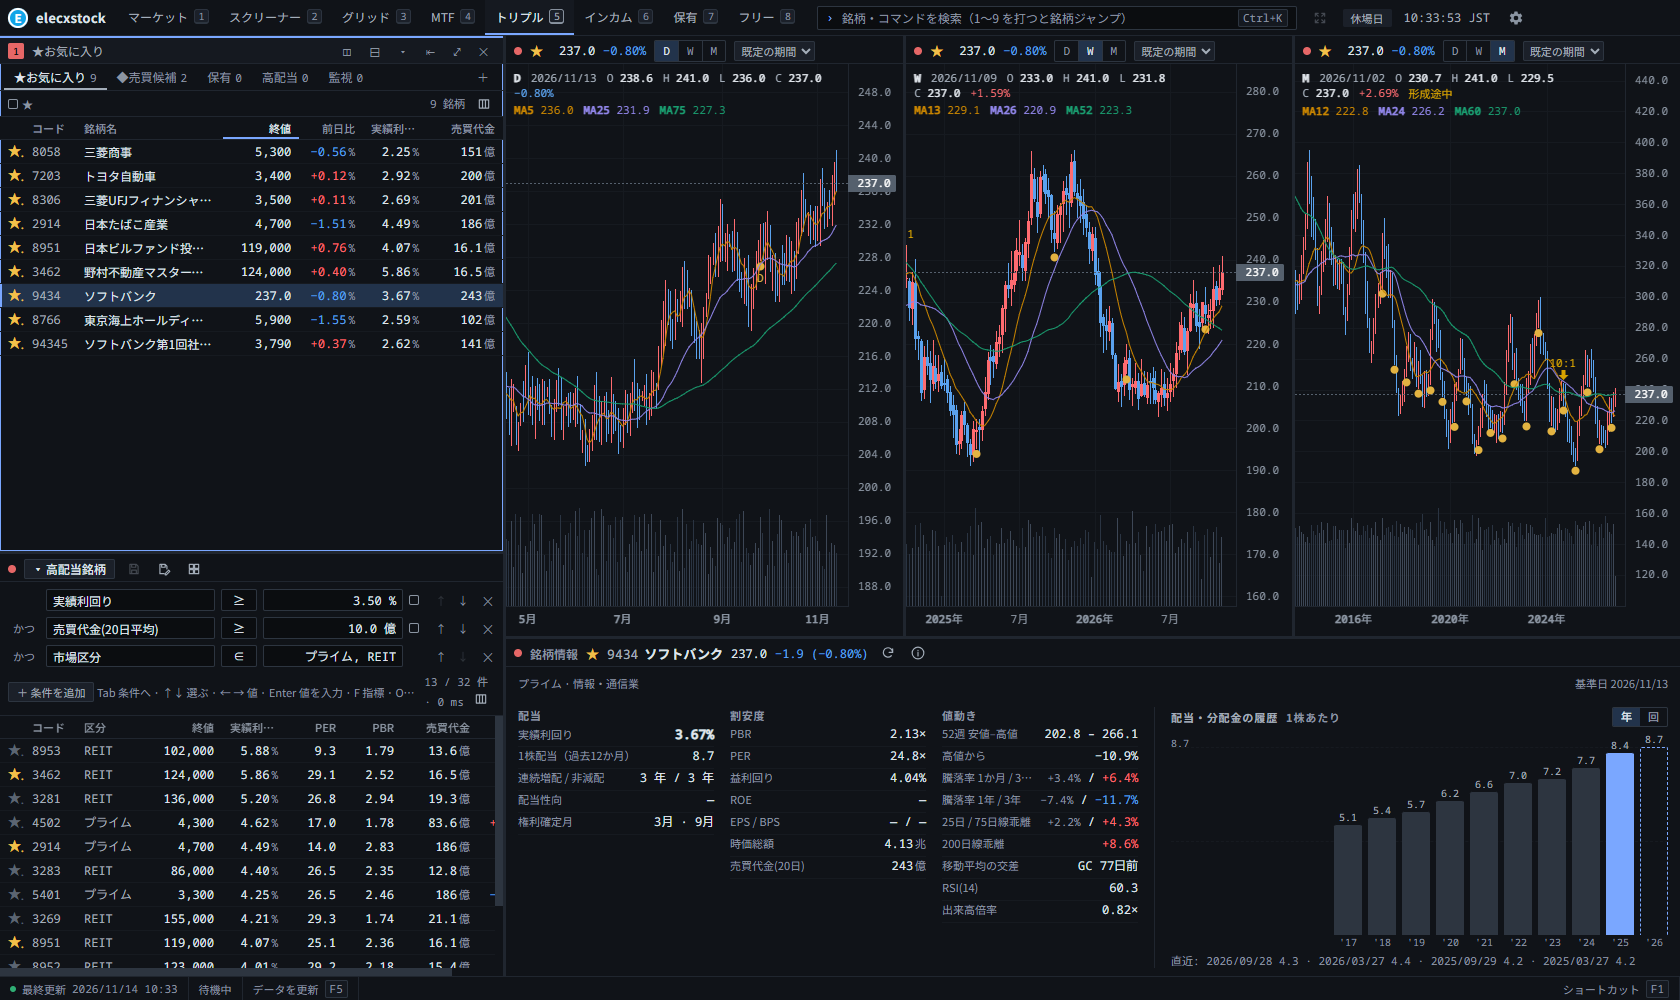
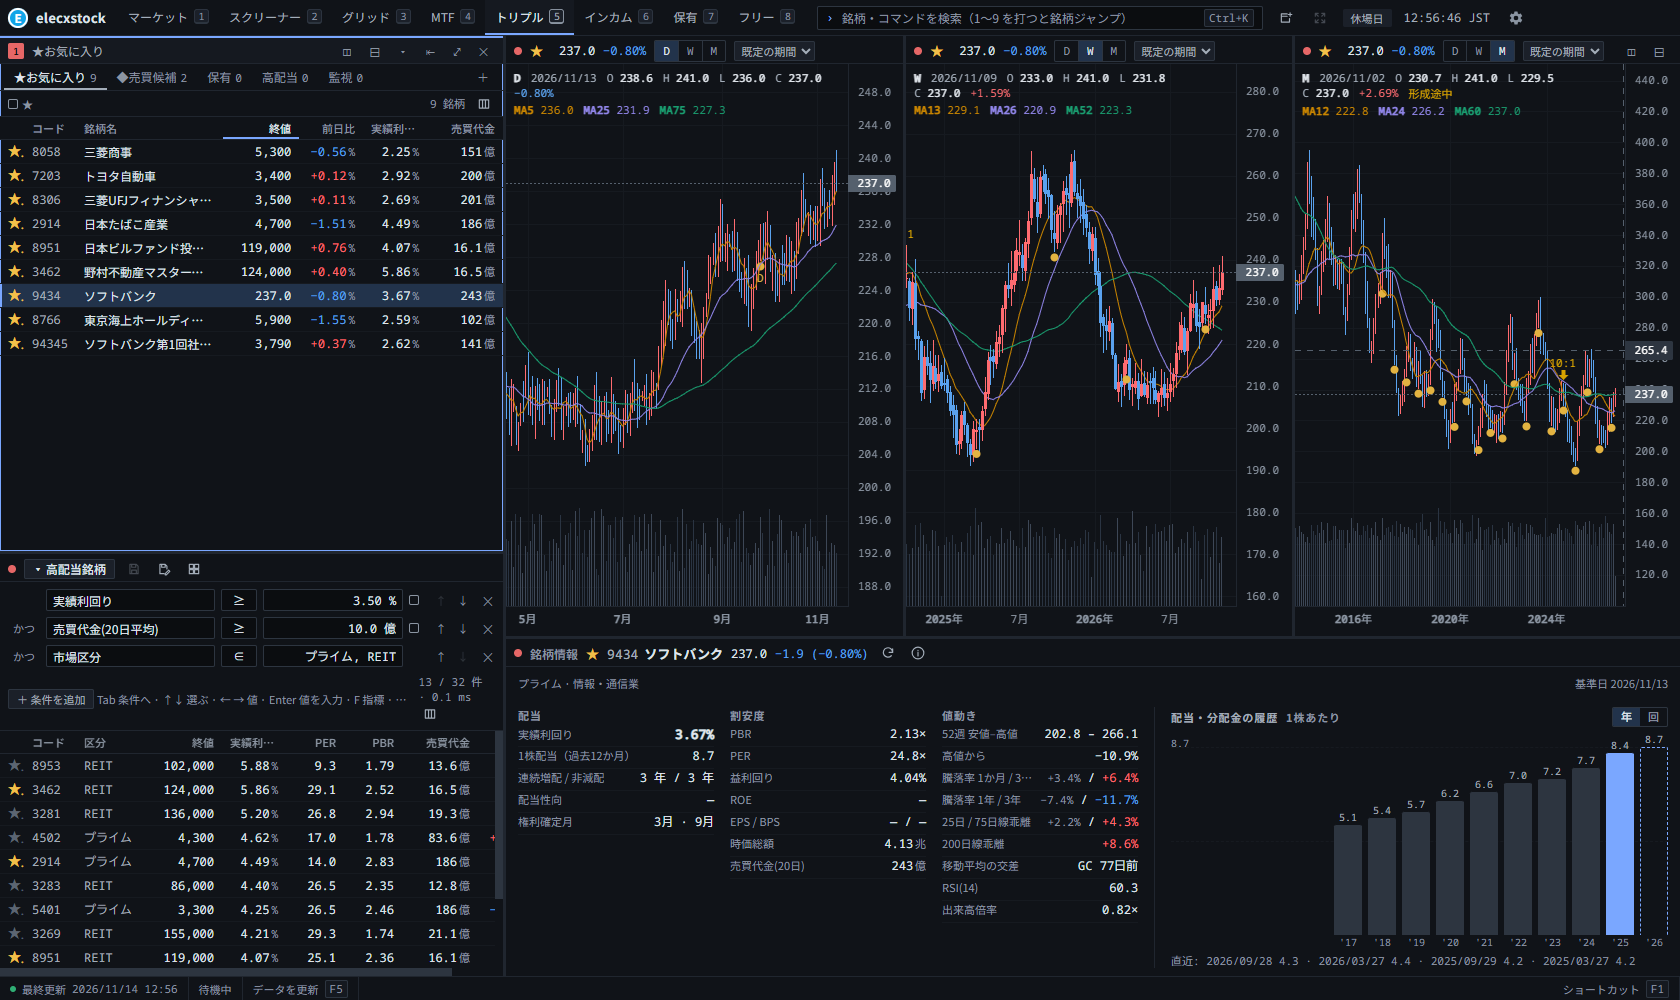
feat(window): title-bar button to open a Free window; multi-monitor screenshot / タイトルバーにフリーのウィンドウを開くボタン、マルチモニタのスクリーンショット
Added a button next to Reset sizes that runs the same action as Ctrl+Alt+N. / サイズを戻すの隣に Ctrl+Alt+N と同じ操作のボタンを追加しました。
scripts/gen-screenshots.mjs now composes the main window and Free 2 side by side as docs/screenshots/multi.png. / scripts/gen-screenshots.mjs で 1 枚目とフリー 2 を並べた docs/screenshots/multi.png を作るようにしました。
README, FR-L7 and the multi-window E2E test mention the button; other screenshots retaken. / README・FR-L7・マルチウィンドウの E2E にボタンを反映し、ほかのスクリーンショットも撮り直しました。

diff --git a/src/renderer/components/TopBar.svelte b/src/renderer/components/TopBar.svelte
@@ -42,6 +42,8 @@ onMount(() => {
     <span class="ic">›</span><span class="ph">{t('top.search')}</span><kbd>Ctrl+K</kbd>
   </button>
   <div class="right">
+    <!-- 2 枚目以降のモニタ用のフリーのウィンドウを開く（Ctrl+Alt+N と同じ。初期の形を選ぶ） -->
+    <button type="button" class="ibtn" onclick={() => runAction('newWindow')} aria-label={t('act.newWindow')} title={`${t('act.newWindow')} (${keyOf('newWindow')})`}><Icon name="newWindow" /></button>
     <!-- 押しても変わらないとき（既定のまま・最大化中）は押せない -->
     <button type="button" class="ibtn" onclick={doResetSizes} disabled={!!app.maximized || sizesAtDefault()} aria-label={t('top.resetSizes')} title={`${t('top.resetSizes')}${app.maximized ? ` — ${t('top.resetSizesMax')}` : sizesAtDefault() ? ` — ${t('top.resetSizesNone')}` : ` (${keyOf('resetSizes')})`}`}><Icon name="resetSize" /></button>
     <span class="pill" class:open={market === 'open'}>{t(market === 'open' ? 'market.open' : market === 'holiday' ? 'market.holiday' : 'market.closed')}</span>

diff --git a/tests/e2e/multiwindow.spec.ts b/tests/e2e/multiwindow.spec.ts
@@ -28,6 +28,10 @@ async function openFree(app: ElectronApplication, page: Page, label: string): Pr
 test('フリー 2: キーで開き、銘柄ジャンプで足し、タブ・設定は 1 枚目だけ', async () => {
   const { app, page } = await launch()
   await ready(page)
+  // タイトルバーのボタンでも開ける（Ctrl+Alt+N と同じダイアログ）
+  await page.getByRole('button', { name: '新しいウィンドウ（フリー）を開く' }).click()
+  await expect(page.locator('.dialog')).toContainText('初期の形')
+  await keys(page, 'Escape')
   const free = await openFree(app, page, 'チャートグリッド')
   await expect(free.locator('.wname')).toHaveText('フリー 2')
   await expect(free.locator('.presets')).toHaveCount(0)

diff --git a/src/renderer/components/Icon.svelte b/src/renderer/components/Icon.svelte
@@ -17,6 +17,8 @@ const PATHS = {
   cancel: 'M6 6l12 12M18 6L6 18',
   plus: 'M12 5v14M5 12h14',
   info: 'M12 22a10 10 0 1 0 0-20 10 10 0 0 0 0 20zM12 11v6M12 7.5v.5',
+  /** 新しいウィンドウ: 窓と右上の + */
+  newWindow: 'M14 5H4v14h14v-6M4 9h10M19 3v6M16 6h6',
   resetSize: 'M4 9V4h5M20 9V4h-5M4 15v5h5M20 15v5h-5M9 9l-5-5M15 9l5-5M9 15l-5 5M15 15l5 5',
 } as const
 export type IconName = keyof typeof PATHS

diff --git a/docs/requirements.md b/docs/requirements.md
@@ -332,7 +332,7 @@ type LinkGroup = 'red' | 'green' | 'blue' | 'yellow' | 'purple'
 | FR-L4  | 今のレイアウト（分割・ペイン・ドロワー・選んだリストなど）は作業に追従して自動保存し、次回起動時に戻す（P1）。名前を付けた保存・名前変更・削除・一覧（Ctrl+Shift+L）は P2                                                                                                                                                                                                                                                                                                                                                                                                                                                                    | P1 / P2 |
 | FR-L5  | プリセットを同梱し（§6.4）、Ctrl+Shift+1〜8 で切り替える（並びは マーケット・スクリーナー・グリッド・MTF・トリプル・インカム・保有・フリー。市場全体 → 探す → 見比べる → 1 銘柄を深く → 配当 → 保有 → 自由に組む）。タブにはショートカットの数字をキーの形で添える。プリセットはテンプレートで、切り替えたあとの変更はそのプリセットの「今のレイアウト」として保存される                                                                                                                                                                                                                                                                     | P1      |
 | FR-L6  | レイアウトの変更は純粋関数（layout-ops）で行い、ディスクから読んだ木は正規化してから使う                                                                                                                                                                                                                                                                                                                                                                                                                                                                                                                                                     | P1      |
-| FR-L7  | **フリーのウィンドウ（マルチモニタ）**: 2 枚目以降はタブなしの「フリー 2〜4」（最大 3 枚）。チャート・MTF・グリッド・銘柄情報だけを並べ、レイアウトは窓ごとに保存して、位置（モニタの組み合わせごと）・文字の大きさとともに再起動で戻す。銘柄は 1 枚目の一覧からのドラッグ、銘柄ジャンプ、Ctrl+Alt+Enter（送る）で足す。リンク色を付けたペインは 1 枚目の同じ色の銘柄を追う。設定・リストの編集は 1 枚目だけ（★・◆は可）。設計は docs/design-multimonitor.md                                                                                                                                                                                 | P3 ✓    |
+| FR-L7  | **フリーのウィンドウ（マルチモニタ）**: 2 枚目以降はタブなしの「フリー 2〜4」（最大 3 枚。Ctrl+Alt+N かタイトルバーのボタンで開く）。チャート・MTF・グリッド・銘柄情報だけを並べ、レイアウトは窓ごとに保存して、位置（モニタの組み合わせごと）・文字の大きさとともに再起動で戻す。銘柄は 1 枚目の一覧からのドラッグ、銘柄ジャンプ、Ctrl+Alt+Enter（送る）で足す。リンク色を付けたペインは 1 枚目の同じ色の銘柄を追う。設定・リストの編集は 1 枚目だけ（★・◆は可）。設計は docs/design-multimonitor.md                                                                                                                                        | P3 ✓    |
 | FR-L8  | ペイン 1 つの例外はそのペインだけを止め、再試行とエラー通知を出す                                                                                                                                                                                                                                                                                                                                                                                                                                                                                                                                                                            | P1      |
 | FR-L9  | **サイズを元に戻す**: 今のレイアウトの区切り線の比率とドロワーの幅を、プリセットの初期値に一度に戻す。ペインの並び・中身（グリッドの銘柄など）は変えない。比率は木の位置ではなく中身で探す（プリセットのうち向き・子の数が同じで、子の中のペインがいちばん重なる区切りの比率。似たものが無ければ等分）。ペインをドロワーに移したあとや前の版で保存した形でも、例えば MTF の日足は大きいまま戻る。トップバーのボタン・コマンドバー・キー（Ctrl+Alt+R）から実行でき、確認は出さずに実行して「元に戻す」（10 秒間、Ctrl+Z）を出す。押しても変わらないとき（既定の大きさのまま・ペインの最大化中）はボタンを押せなくし、理由をツールチップに出す | P1      |
 | FR-L10 | **レイアウトを初期状態に戻す**: ペインの並び・中身も含めて、表示中のタブのレイアウトだけをプリセットの初期状態に戻す（ほかのタブ・ウォッチリスト・スクリーン・保有・保存したレイアウトは変えない。確認と完了の通知にタブの名前を出す）。グリッドの銘柄などが失われるので、失われるものを示して確認してから行う。コマンドバーから実行する                                                                                                                                                                                                                                                                                                     | P1      |

diff --git a/README.md b/README.md
@@ -30,7 +30,7 @@
 - **保有（ポートフォリオ）**: 保有タブ（Ctrl+Shift+7）で銘柄・口座区分（NISA 成長投資枠・つみたて投資枠・旧 NISA・特定・一般）・数量・平均取得単価を足す・直す・外すか、楽天証券の保有商品の CSV を取り込みます（取り込むと CSV の内容に置き換わります。国内株式）。評価額・評価損益・前日比・年間配当の見込み・取得利回りを口座区分ごと・合計で見られます。JSON で書き出し・取り込み（[形式](docs/holdings-format.md)）。
 - **マーケット**: 33 業種のヒートマップ（面積 = 時価総額、色 = 騰落率）、ランキング、指数・指数連動 ETF の小さなチャート。
 - **レイアウト**: ペインの分割・入れ替え（タイトルのドラッグでも）・最大化、左右の自動で隠れるドロワー、7 つのプリセット（MTF・Grid・Screener・Income・Triple・Market・Free）、名前を付けて保存したレイアウト、サイズのリセット。グリッドの銘柄も含めて保存されます。一覧の行をグリッドのタイルやチャートにドラッグすると、その銘柄を表示します。
-- **マルチモニタ**: Ctrl+Alt+N でタブなしの「フリー」のウィンドウを最大 3 枚開き（チャートグリッド・4 分割・MTF + 銘柄情報）、2 枚目のモニタにチャートを並べられます。銘柄は 1 枚目の一覧からのドラッグか Ctrl+Alt+Enter で送ります。リンク色を付けたチャートは 1 枚目で選んだ銘柄を追います。並び・位置・文字の大きさは窓ごとに覚え、次の起動で開き直します。
+- **マルチモニタ**: Ctrl+Alt+N（またはタイトルバーのボタン）でタブなしの「フリー」のウィンドウを最大 3 枚開き（チャートグリッド・4 分割・MTF + 銘柄情報）、2 枚目のモニタにチャートを並べられます。銘柄は 1 枚目の一覧からのドラッグか Ctrl+Alt+Enter で送ります。リンク色を付けたチャートは 1 枚目で選んだ銘柄を追います。並び・位置・文字の大きさは窓ごとに覚え、次の起動で開き直します。
 - **配当カレンダー**、銘柄情報、取得ジョブの進捗と一時停止。
 - **日本語／英語**の表示、ダーク／ライトのテーマ、陽線・陰線の色（日本式／欧米式）、キーの割り当ての変更。
 - 大引け後の自動更新、新しい版の通知、市場データの DB のバックアップ、日足の CSV 書き出し。
@@ -47,6 +47,10 @@
 | マーケット（ヒートマップ・ランキング）      | ライトテーマ                                 |
 | ![Free window](docs/screenshots/free.png)   |                                              |
 | フリーのウィンドウ（2 枚目のモニタ）        |                                              |
+
+![Multiple monitors](docs/screenshots/multi.png)
+
+2 枚のモニタに並べたところ（左: 1 枚目、右: フリー 2。リンク 1 のチャートが 1 枚目で選んだ銘柄を追う）
 
 （スクリーンショットはテスト用の架空のデータです）
 
@@ -128,7 +132,7 @@ Everything can be done with the keyboard alone.
 - **Portfolio**: holdings per symbol and account type (NISA, specified, general) entered as trades or quantity/average cost, with value and P/L by account; JSON export/import ([format](docs/holdings-format.md)).
 - **Market**: sector heatmap, rankings and index mini-charts.
 - **Layouts**: split, swap (or drag titles) and maximize panes, left and right auto-hiding drawers, seven presets (including Free, where each unlinked chart keeps its own symbol), named layouts, size reset. Grid symbols are saved with the layout. Drag a row from a list onto a grid tile or chart to show that symbol.
-- **Multiple monitors**: open up to three tabless Free windows with Ctrl+Alt+N (chart grid, four charts, or MTF + symbol info) to line up charts on a second monitor. Drag symbols from the main window's lists or send them with Ctrl+Alt+Enter; linked charts follow the symbol picked in the main window. Layout, position and text size are remembered per window and reopened at the next start.
+- **Multiple monitors**: open up to three tabless Free windows with Ctrl+Alt+N or the title-bar button (chart grid, four charts, or MTF + symbol info) to line up charts on a second monitor. Drag symbols from the main window's lists or send them with Ctrl+Alt+Enter; linked charts follow the symbol picked in the main window. Layout, position and text size are remembered per window and reopened at the next start.
 - **Dividend calendar**, symbol info, fetch jobs with progress and pause.
 - **Japanese / English** UI, dark / light themes, candle colors (Japanese or Western) and remappable keys.
 - Automatic update after the close, new-version notice, database backup, daily-bar CSV export.
